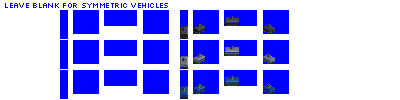
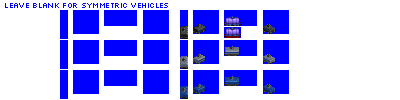
Change: stub in NG tank car

Changed region(s): [[0.54, 0.15, 0.6, 0.39]]

diff --git a/src/vehicles/tank_cars.py b/src/vehicles/tank_cars.py
@@ -10,7 +10,8 @@ def main():
                              track_type='NG')
 
     consist.add_unit(type=FreightCar,
-                     vehicle_length=4)
+                     vehicle_length=4,
+                     chassis='2_axle_filled_16px')
 
         #--------------- pony ----------------------------------------------------------------------
     consist = TankCarConsist(roster='pony',
